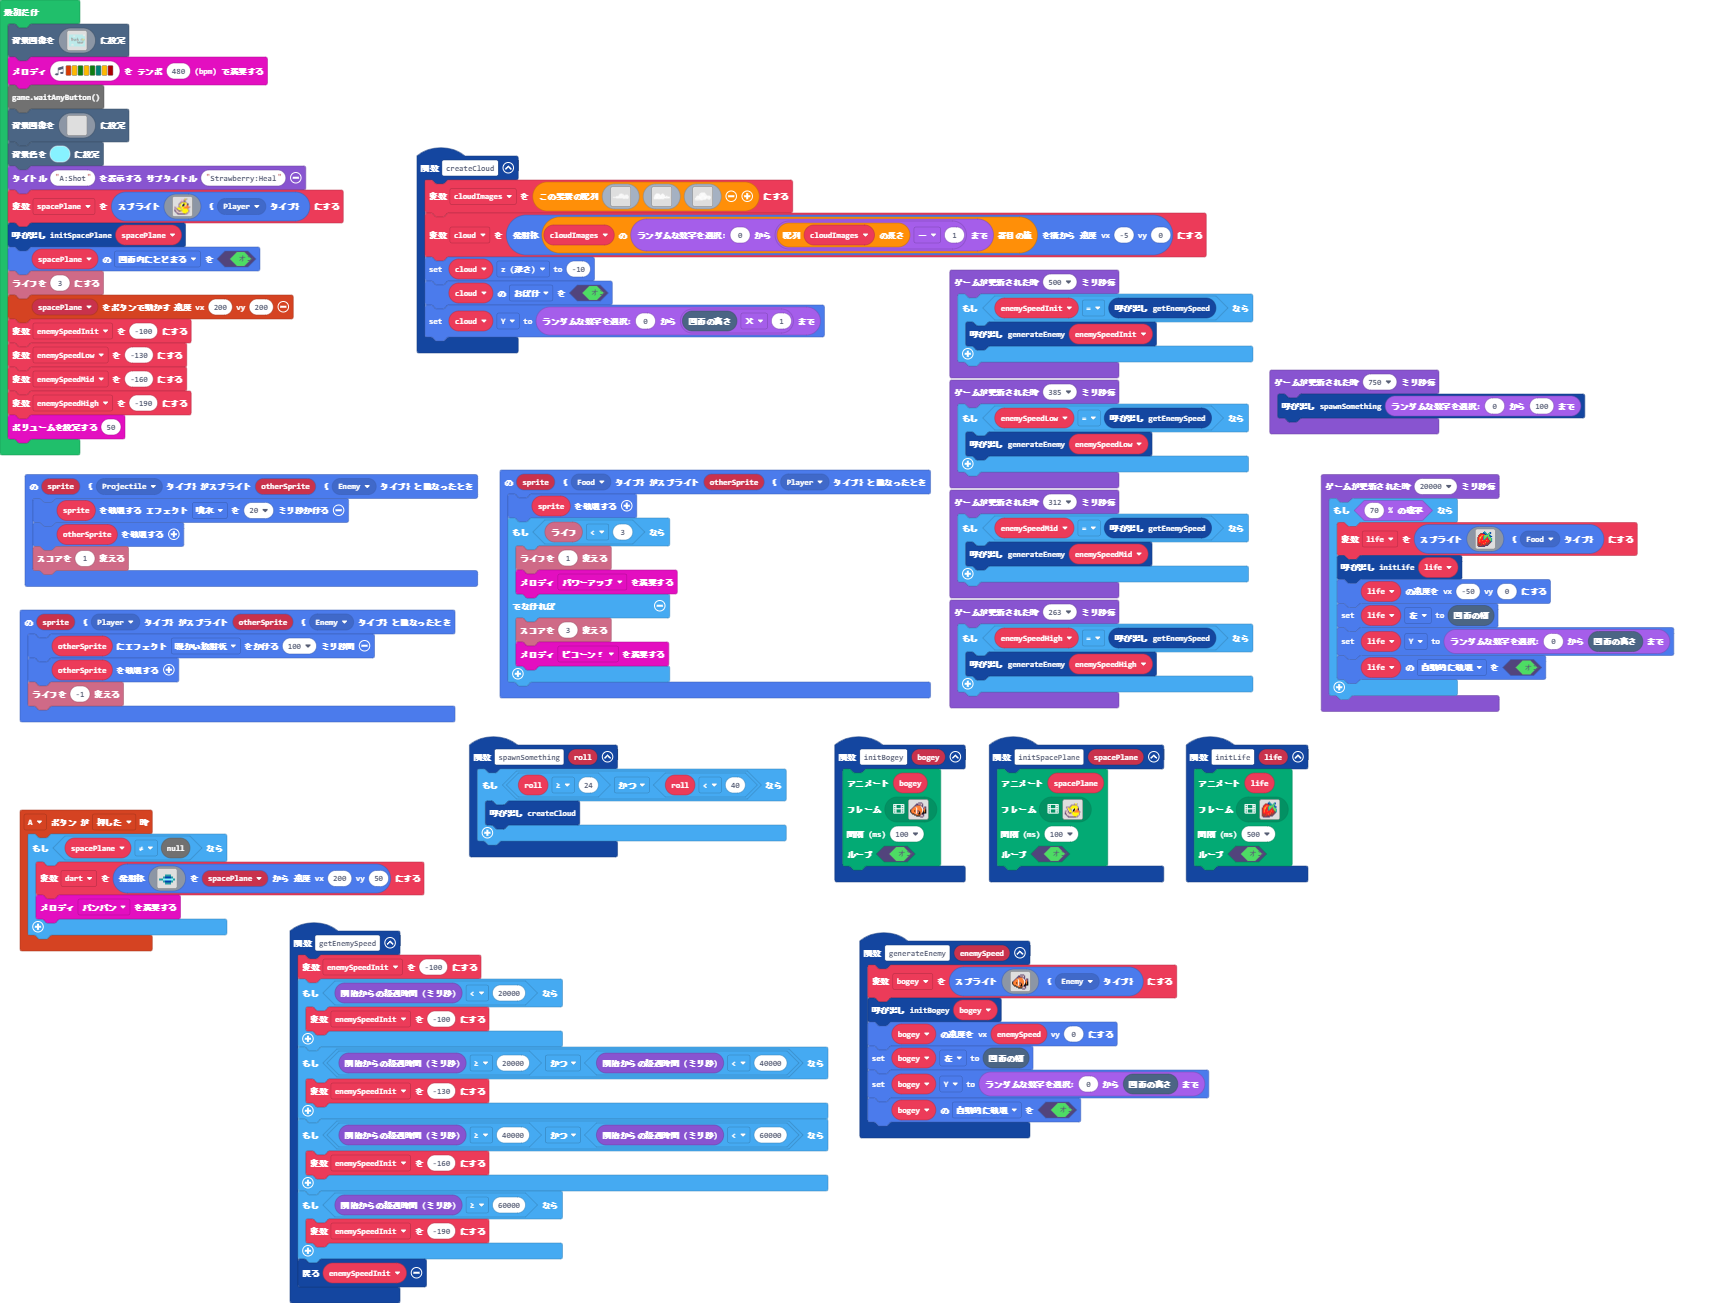
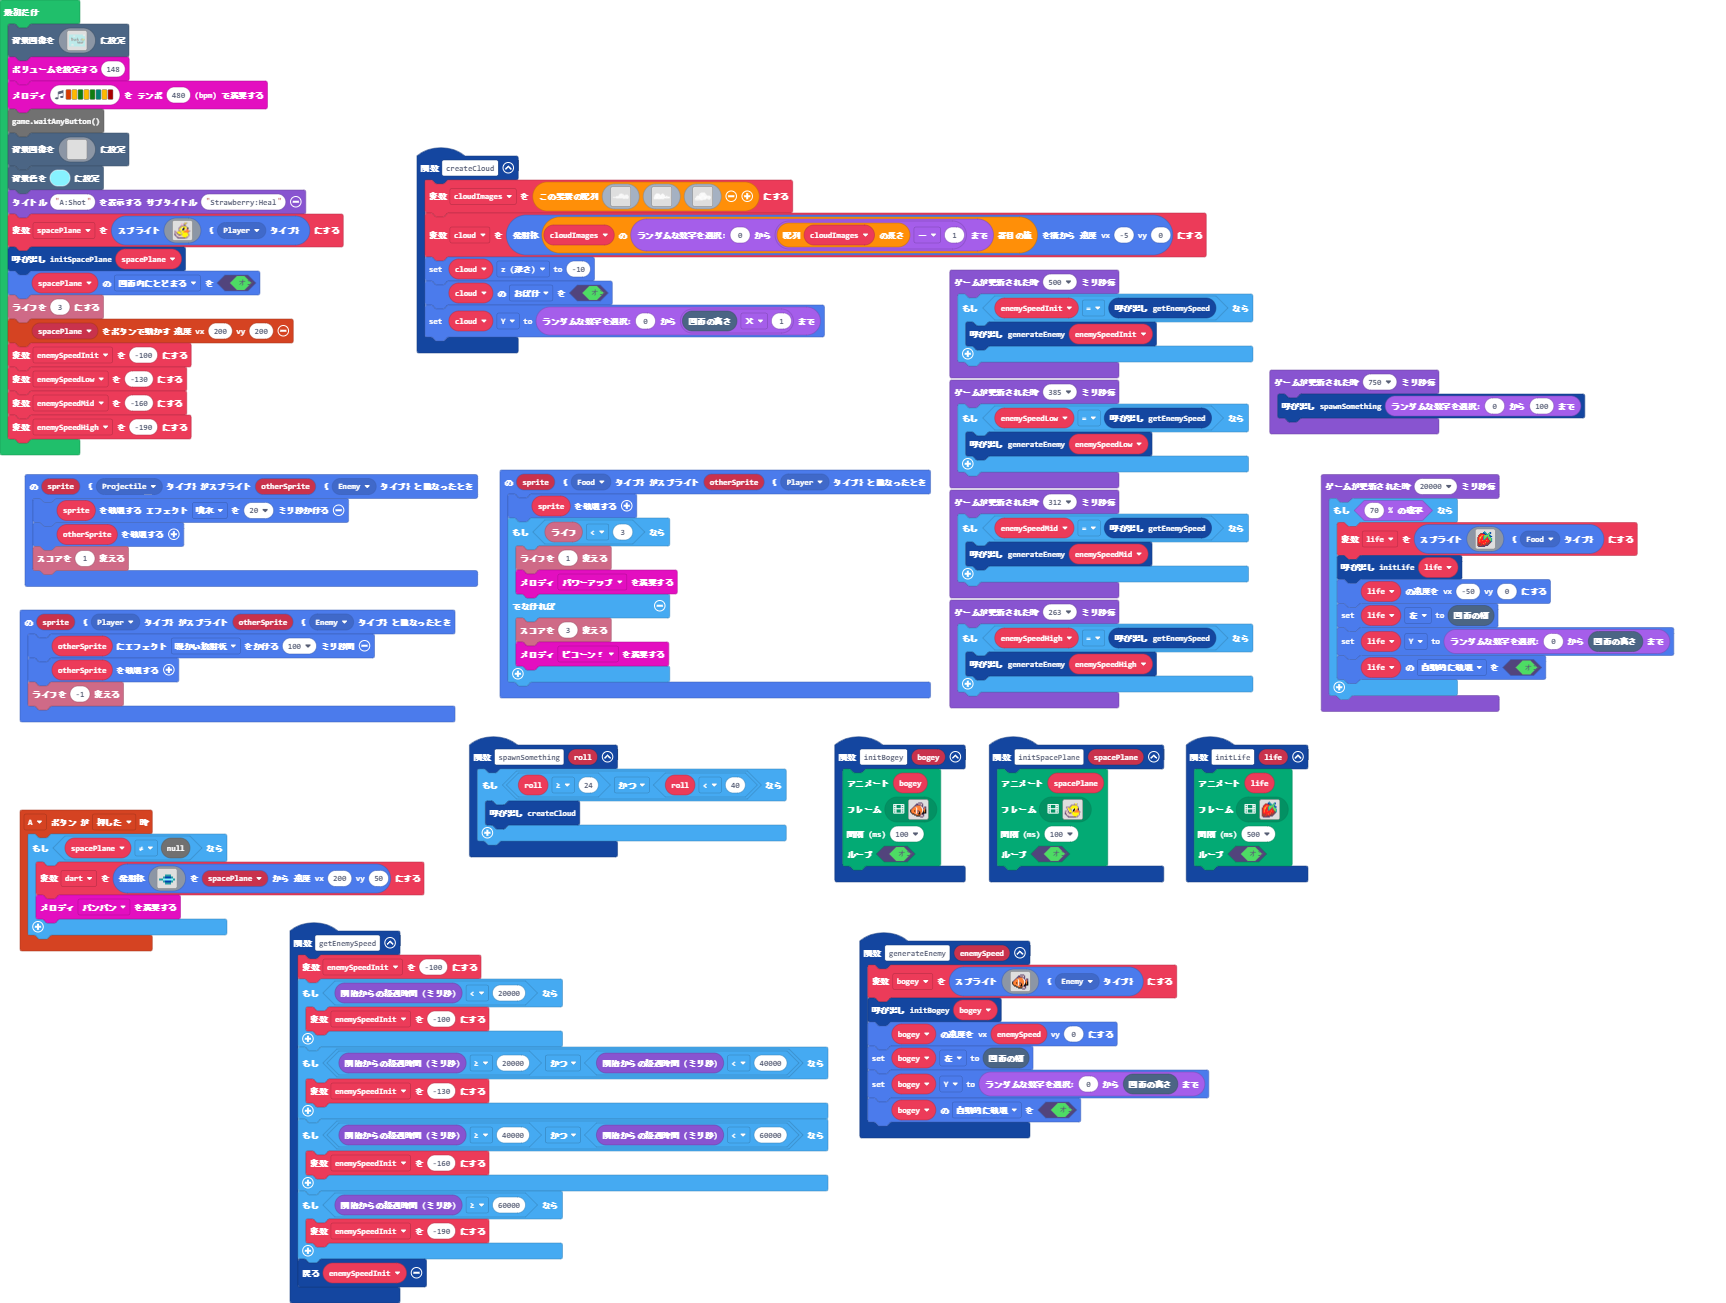
Changed volume for Kitoronik.

Changed region(s): [[0.0, 0.0307, 0.2149, 0.2763], [0.0, 0.307, 0.1228, 0.3377]]

diff --git a/main.ts b/main.ts
@@ -501,6 +501,7 @@ scene.setBackgroundImage(img`
     9999999999999999999999999999999999999999999999999999999999999999999999999999999999999999999999999999999999999999999999999999999999999999999999999999999999999999
     9999999999999999999999999999999999999999999999999999999999999999999999999999999999999999999999999999999999999999999999999999999999999999999999999999999999999999
     `)
+music.setVolume(148)
 music.playMelody("B A G A G F A C5 ", 480)
 game.waitAnyButton()
 scene.setBackgroundImage(img`
@@ -653,7 +654,6 @@ enemySpeedInit = -100
 let enemySpeedLow = -130
 let enemySpeedMid = -160
 let enemySpeedHigh = -190
-music.setVolume(50)
 game.onUpdateInterval(750, function () {
     spawnSomething(randint(0, 100))
 })
